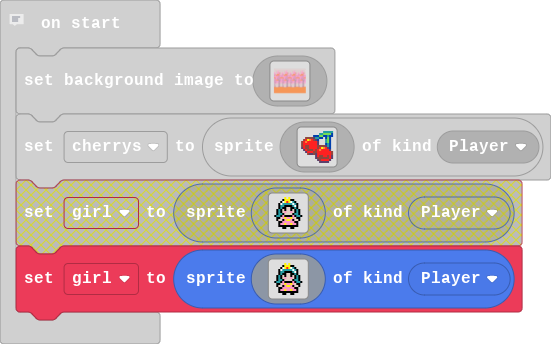
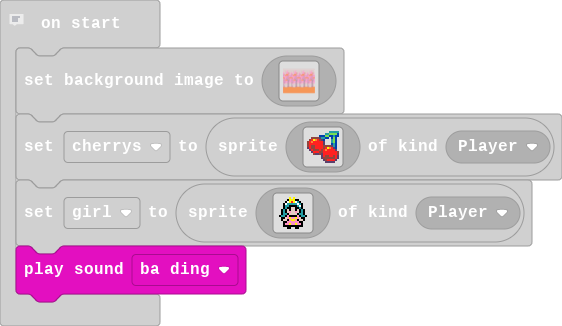
Update main.blocks, main.ts

diff --git a/main.ts b/main.ts
@@ -157,3 +157,4 @@ let girl = sprites.create(img`
     . . . f f f f f f f f f f . . . 
     . . . . . f f . . f f . . . . . 
     `, SpriteKind.Player)
+music.baDing.play()
